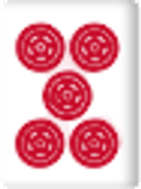
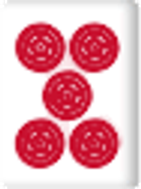
feat(ui): use sharpened high-resolution tile images with a card-like frame
Tile design changes made by the user with Codex: every tile is rendered
as a 3x PNG, with a rounded frame and shadow around it.

diff --git a/src/components/tile.tsx b/src/components/tile.tsx
@@ -70,15 +70,17 @@ export function Tile({
       rotation={rotation}
       className={`transition-transform duration-100 ${raised ? "-translate-y-2.5" : ""} ${dimmed ? "opacity-40" : ""}`}
     >
-      <Image
-        src={tileImage(id)}
-        alt={tileLabel(id)}
-        width={width}
-        height={height}
-        unoptimized
-        draggable={false}
-        className="block h-full w-full select-none"
-      />
+      <span className="block h-full w-full rounded-[5px] bg-[#fffaf0] shadow-[0_1px_0_rgba(255,255,255,0.75)_inset,0_3px_7px_rgba(0,0,0,0.32)] ring-1 ring-slate-950/25">
+        <Image
+          src={tileImage(id)}
+          alt={tileLabel(id)}
+          width={width}
+          height={height}
+          unoptimized
+          draggable={false}
+          className="block h-full w-full select-none rounded-[5px] contrast-125 saturate-125"
+        />
+      </span>
     </TileBox>
   );
 }
@@ -91,7 +93,7 @@ export function TileBack({
 }: BoxProps) {
   return (
     <TileBox width={width} rotation={rotation}>
-      <span className="block h-full w-full rounded-[3px] border border-sky-300/70 bg-[#1f4fbf]" />
+      <span className="block h-full w-full rounded-[5px] border border-sky-200/80 bg-[#2259cf] shadow-[0_1px_0_rgba(255,255,255,0.35)_inset,0_3px_7px_rgba(0,0,0,0.3)] ring-1 ring-slate-950/25" />
     </TileBox>
   );
 }

diff --git a/src/components/tile-image.ts b/src/components/tile-image.ts
@@ -1,7 +1,7 @@
 import { tileOf } from "@/engine/tiles";
 import type { TileId, TileVariant } from "@/engine/tiles";
 
-/** 素材の牌画像の縦横比（47×63px） */
+/** 牌画像の縦横比（元素材は47×63px、表示用PNGは3倍で生成） */
 export const TILE_RATIO = 63 / 47;
 
 const SUFFIX: Record<TileVariant, string> = {
@@ -12,9 +12,8 @@ const SUFFIX: Record<TileVariant, string> = {
   reversePocchi: "-reverse-pocchi",
 };
 
-/** 牌の画像のパス。素材にある牌はGIF、加工して作った牌はPNG。 */
+/** 牌の画像のパス。すべて表示用に高解像度PNGを使う。 */
 export function tileImage(id: TileId): string {
   const { kind, variant } = tileOf(id);
-  if (variant === "normal" && kind !== "1f") return `/tiles/${kind}.gif`;
   return `/tiles/${kind}${SUFFIX[variant]}.png`;
 }
